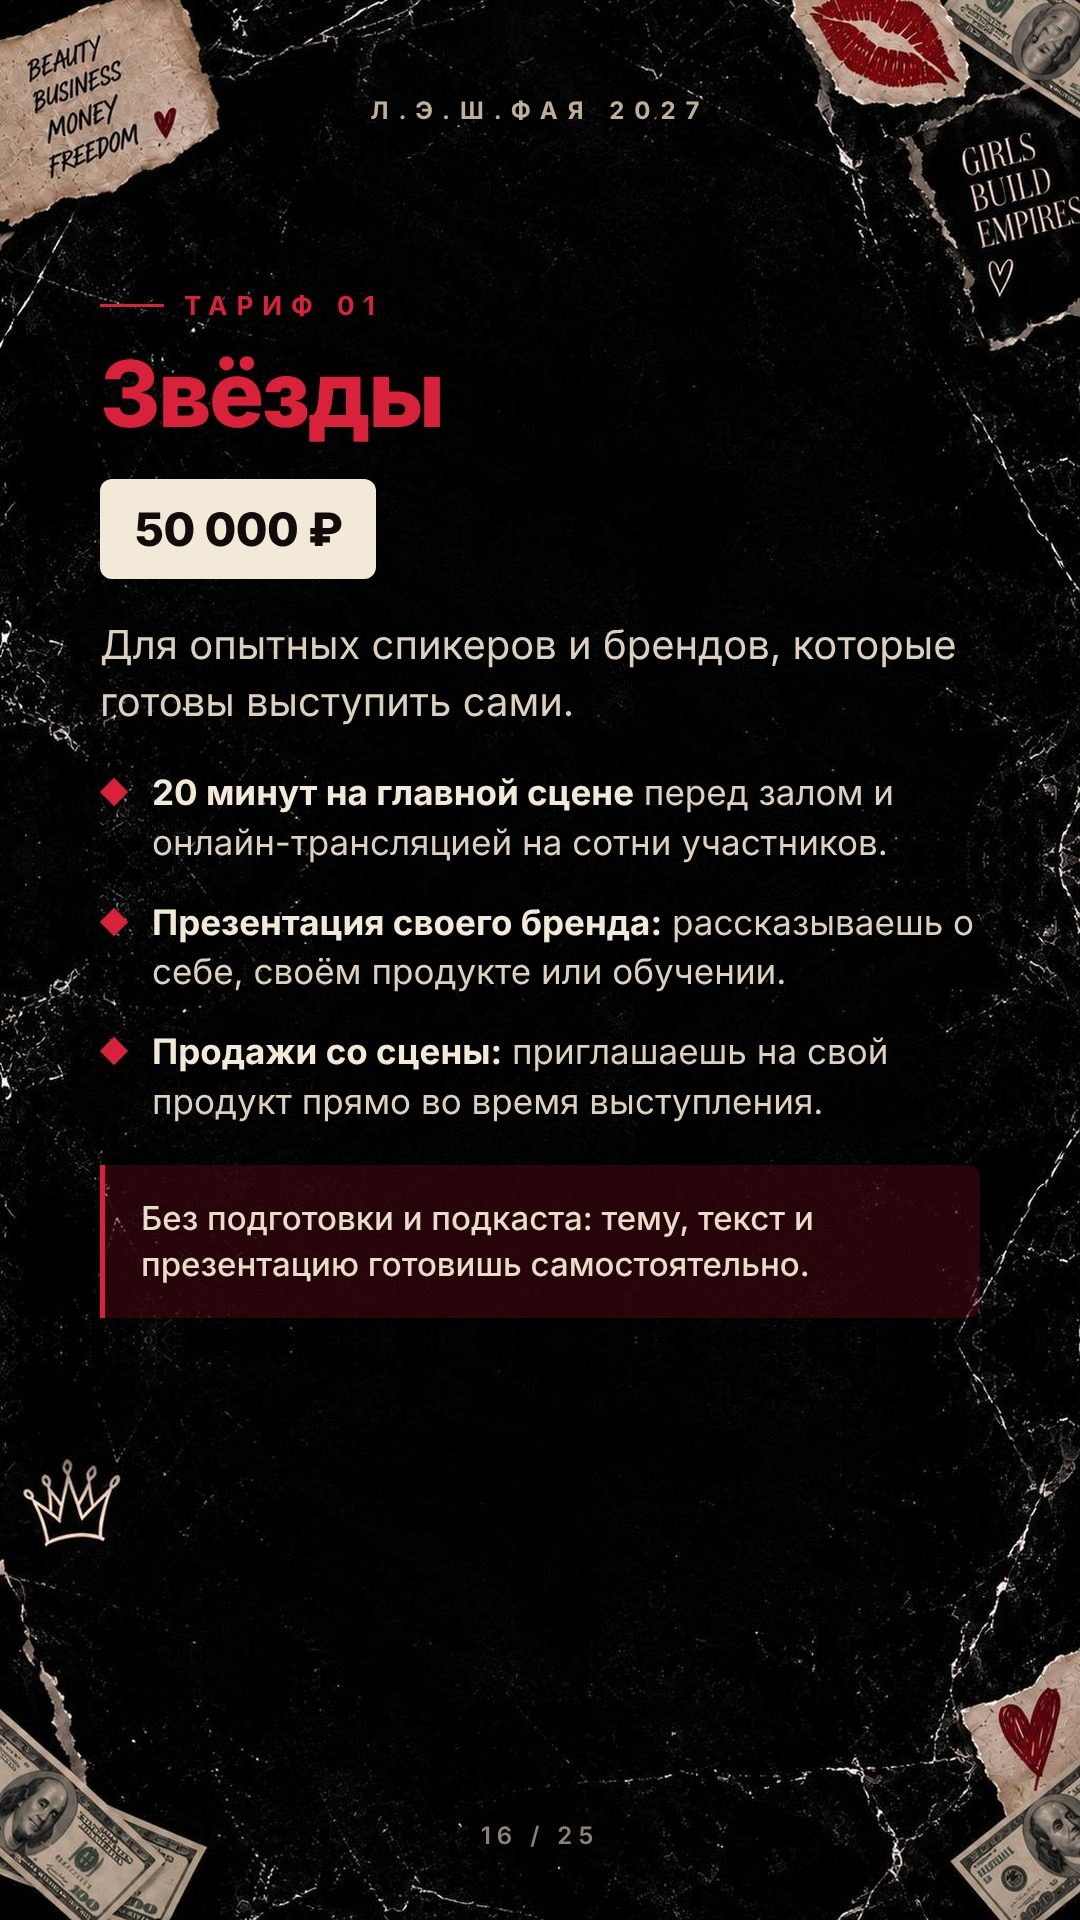
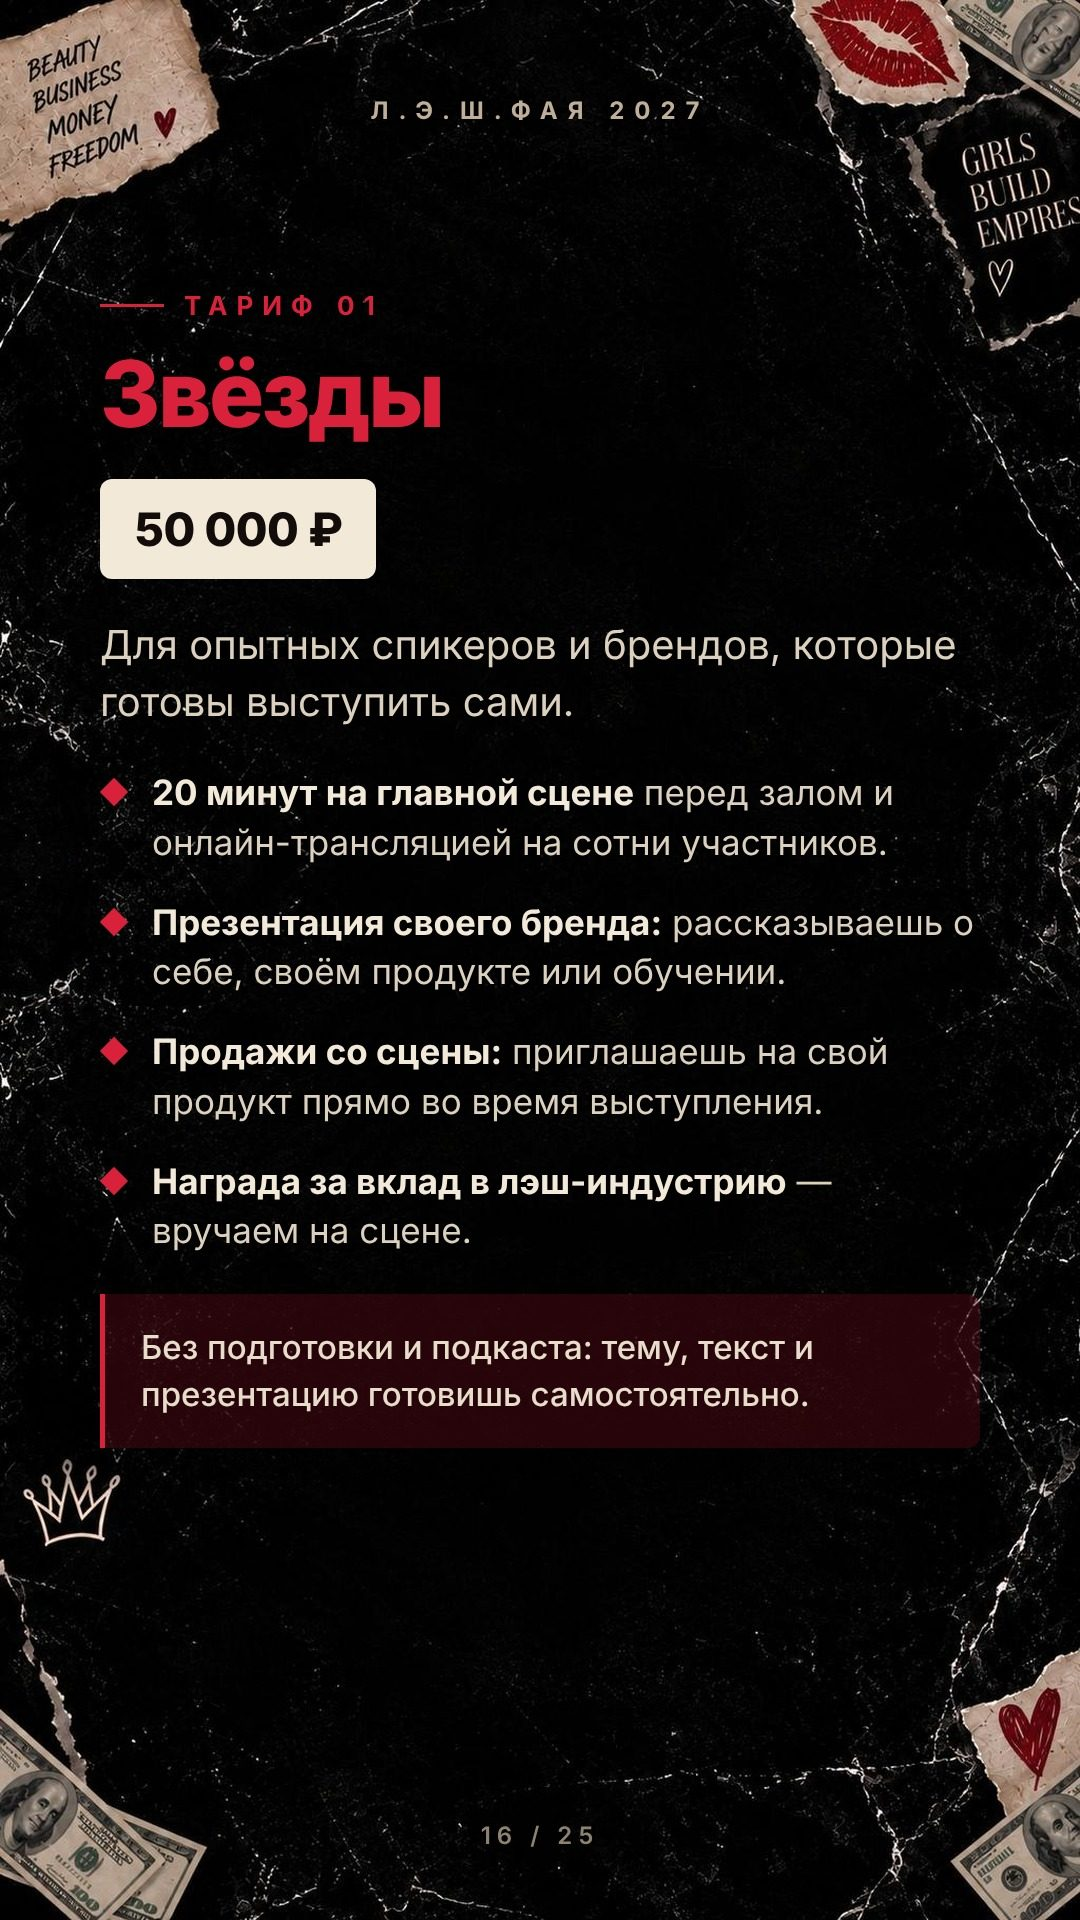
Награда за вклад в индустрию — и в тарифе «Звёзды»
Claude-Session: https://claude.ai/code/session_01KxHKsqFZP9q9nJcN93KArK

Changed region(s): [[0.0917, 0.5938, 0.9167, 0.7812]]

diff --git a/index.html b/index.html
@@ -6,7 +6,7 @@
 <meta name="description" content="Стань новой звездой лэш-индустрии на крупнейшей в мире конференции по ресницам. ЛэшФая 2027, 14–15 января, Москва.">
 <meta property="og:title" content="ЛэшФая 2027 — предложение для спикеров">
 <meta property="og:description" content="Стань новой звездой лэш-индустрии. 14–15 января 2027, Москва.">
-<meta property="og:image" content="https://speaker-lash.vercel.app/og.jpg?v=1794491296">
+<meta property="og:image" content="https://speaker-lash.vercel.app/og.jpg?v=1794491385">
 <meta property="og:url" content="https://speaker-lash.vercel.app/">
 <meta property="og:type" content="website">
 <meta name="theme-color" content="#050404">
@@ -25,33 +25,33 @@ html{scroll-behavior:smooth}
 .ig{display:block;margin:0 16px 20px;padding:16px;border:1px solid rgba(243,233,216,.35);border-radius:14px;color:#F3E9D8;text-align:center;font:600 16px/1.2 -apple-system,Inter,Arial,sans-serif;text-decoration:none;background:#0e0a09}
 </style></head>
 <body><main>
-<a class="first" href="#s2"><img src="s/sp_01.jpg?v=1794491296" width="1080" height="1920" alt="Слайд 1"><span class="hint">Листайте вниз<i>↓</i></span></a>
-<span id="s2"></span><img src="s/sp_02.jpg?v=1794491296" width="1080" height="1920" alt="Слайд 2">
-<img src="s/sp_03.jpg?v=1794491296" width="1080" height="1920" alt="Слайд 3" loading="lazy">
-<img src="s/sp_04.jpg?v=1794491296" width="1080" height="1920" alt="Слайд 4" loading="lazy">
-<img src="s/sp_05.jpg?v=1794491296" width="1080" height="1920" alt="Слайд 5" loading="lazy">
+<a class="first" href="#s2"><img src="s/sp_01.jpg?v=1794491385" width="1080" height="1920" alt="Слайд 1"><span class="hint">Листайте вниз<i>↓</i></span></a>
+<span id="s2"></span><img src="s/sp_02.jpg?v=1794491385" width="1080" height="1920" alt="Слайд 2">
+<img src="s/sp_03.jpg?v=1794491385" width="1080" height="1920" alt="Слайд 3" loading="lazy">
+<img src="s/sp_04.jpg?v=1794491385" width="1080" height="1920" alt="Слайд 4" loading="lazy">
+<img src="s/sp_05.jpg?v=1794491385" width="1080" height="1920" alt="Слайд 5" loading="lazy">
 <a class="ig" href="https://www.instagram.com/lashfire_world/" target="_blank" rel="noopener">Открыть @lashfire_world в Instagram →</a>
-<img src="s/sp_06.jpg?v=1794491296" width="1080" height="1920" alt="Слайд 6" loading="lazy">
-<img src="s/sp_07.jpg?v=1794491296" width="1080" height="1920" alt="Слайд 7" loading="lazy">
-<img src="s/sp_08.jpg?v=1794491296" width="1080" height="1920" alt="Слайд 8" loading="lazy">
-<img src="s/sp_09.jpg?v=1794491296" width="1080" height="1920" alt="Слайд 9" loading="lazy">
-<img src="s/sp_10.jpg?v=1794491296" width="1080" height="1920" alt="Слайд 10" loading="lazy">
-<img src="s/sp_11.jpg?v=1794491296" width="1080" height="1920" alt="Слайд 11" loading="lazy">
-<img src="s/sp_12.jpg?v=1794491296" width="1080" height="1920" alt="Слайд 12" loading="lazy">
-<img src="s/sp_13.jpg?v=1794491296" width="1080" height="1920" alt="Слайд 13" loading="lazy">
-<img src="s/sp_14.jpg?v=1794491296" width="1080" height="1920" alt="Слайд 14" loading="lazy">
+<img src="s/sp_06.jpg?v=1794491385" width="1080" height="1920" alt="Слайд 6" loading="lazy">
+<img src="s/sp_07.jpg?v=1794491385" width="1080" height="1920" alt="Слайд 7" loading="lazy">
+<img src="s/sp_08.jpg?v=1794491385" width="1080" height="1920" alt="Слайд 8" loading="lazy">
+<img src="s/sp_09.jpg?v=1794491385" width="1080" height="1920" alt="Слайд 9" loading="lazy">
+<img src="s/sp_10.jpg?v=1794491385" width="1080" height="1920" alt="Слайд 10" loading="lazy">
+<img src="s/sp_11.jpg?v=1794491385" width="1080" height="1920" alt="Слайд 11" loading="lazy">
+<img src="s/sp_12.jpg?v=1794491385" width="1080" height="1920" alt="Слайд 12" loading="lazy">
+<img src="s/sp_13.jpg?v=1794491385" width="1080" height="1920" alt="Слайд 13" loading="lazy">
+<img src="s/sp_14.jpg?v=1794491385" width="1080" height="1920" alt="Слайд 14" loading="lazy">
 <a class="ig" href="https://www.instagram.com/lashfire_world/" target="_blank" rel="noopener">Открыть @lashfire_world в Instagram →</a>
-<img src="s/sp_15.jpg?v=1794491296" width="1080" height="1920" alt="Слайд 15" loading="lazy">
-<img src="s/sp_16.jpg?v=1794491296" width="1080" height="1920" alt="Слайд 16" loading="lazy">
-<img src="s/sp_17.jpg?v=1794491296" width="1080" height="1920" alt="Слайд 17" loading="lazy">
-<img src="s/sp_18.jpg?v=1794491296" width="1080" height="1920" alt="Слайд 18" loading="lazy">
-<img src="s/sp_19.jpg?v=1794491296" width="1080" height="1920" alt="Слайд 19" loading="lazy">
-<img src="s/sp_20.jpg?v=1794491296" width="1080" height="1920" alt="Слайд 20" loading="lazy">
-<img src="s/sp_21.jpg?v=1794491296" width="1080" height="1920" alt="Слайд 21" loading="lazy">
-<img src="s/sp_22.jpg?v=1794491296" width="1080" height="1920" alt="Слайд 22" loading="lazy">
-<img src="s/sp_23.jpg?v=1794491296" width="1080" height="1920" alt="Слайд 23" loading="lazy">
-<img src="s/sp_24.jpg?v=1794491296" width="1080" height="1920" alt="Слайд 24" loading="lazy">
-<img src="s/sp_25.jpg?v=1794491296" width="1080" height="1920" alt="Слайд 25" loading="lazy">
+<img src="s/sp_15.jpg?v=1794491385" width="1080" height="1920" alt="Слайд 15" loading="lazy">
+<img src="s/sp_16.jpg?v=1794491385" width="1080" height="1920" alt="Слайд 16" loading="lazy">
+<img src="s/sp_17.jpg?v=1794491385" width="1080" height="1920" alt="Слайд 17" loading="lazy">
+<img src="s/sp_18.jpg?v=1794491385" width="1080" height="1920" alt="Слайд 18" loading="lazy">
+<img src="s/sp_19.jpg?v=1794491385" width="1080" height="1920" alt="Слайд 19" loading="lazy">
+<img src="s/sp_20.jpg?v=1794491385" width="1080" height="1920" alt="Слайд 20" loading="lazy">
+<img src="s/sp_21.jpg?v=1794491385" width="1080" height="1920" alt="Слайд 21" loading="lazy">
+<img src="s/sp_22.jpg?v=1794491385" width="1080" height="1920" alt="Слайд 22" loading="lazy">
+<img src="s/sp_23.jpg?v=1794491385" width="1080" height="1920" alt="Слайд 23" loading="lazy">
+<img src="s/sp_24.jpg?v=1794491385" width="1080" height="1920" alt="Слайд 24" loading="lazy">
+<img src="s/sp_25.jpg?v=1794491385" width="1080" height="1920" alt="Слайд 25" loading="lazy">
 <a class="ig" style="margin-top:24px" href="https://www.instagram.com/lashfire_world/" target="_blank" rel="noopener">Страница конференции: @lashfire_world →</a>
 <a class="cta" style="margin-top:12px" href="tel:+79234444906">Позвонить Дмитрию: +7 923 444-49-06</a>
 </main></body></html>
